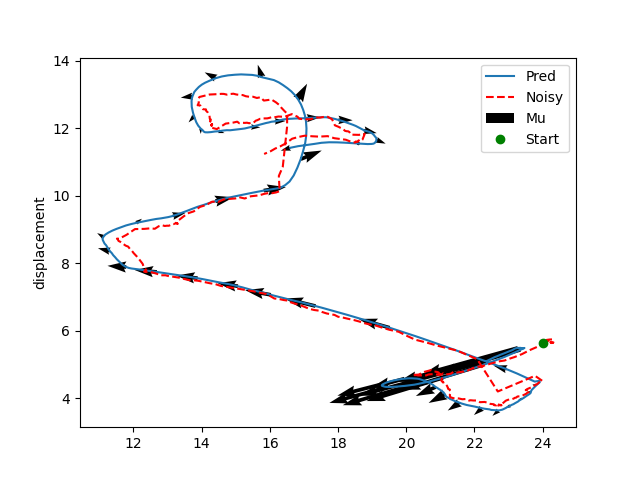
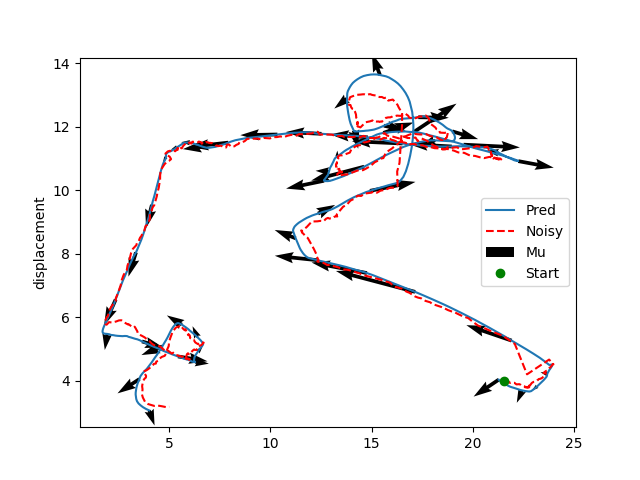
'm'

diff --git a/inference_simplified.py b/inference_simplified.py
@@ -423,7 +423,7 @@ def inf_finance(num_particles = 200):
 def inf_2d_fish(num_particles = 100, datapath=r'C:\Users\95414\Desktop\CUED\phd\year1\mycode\data\fish\3DZeF20Lables\train\ZebraFish-01\gt\gt.txt'):
     l = -1e-2
     c = 5
-    N = 500
+    N = 1000
     startx = 3000
     delta_t = 1
     sigma_w = 0.05
@@ -438,7 +438,7 @@ def inf_2d_fish(num_particles = 100, datapath=r'C:\Users\95414\Desktop\CUED\phd\
     average, std3, _ ,xs, fxs = process_filter_results(n_mus, n_vars, n_log_ws, E_ns, sigma_w)
     np.savez(r"C:\Users\95414\Desktop\CUED\phd\year1\mycode\alpha_stable_levy\stable_levy_code\data\real_data\infe\fish2d",n_mus=n_mus, n_vars = n_vars, n_log_ws = n_log_ws, E_ns = E_ns, allow_pickle=True)
 
-    m = 100
+    m = 200
     pred_xs = average[m:,:]
     y_ns = y_ns[m:,:]
     N = N - m
@@ -457,7 +457,7 @@ def inf_2d_fish(num_particles = 100, datapath=r'C:\Users\95414\Desktop\CUED\phd\
     line1 = ax.plot(pred_xs[0,0], pred_xs[0,3], label='Pred')[0]
     line2 = ax.plot(y_ns[0,0], y_ns[0,1], linestyle = '--', color = 'red', label='Noisy')[0]
     scale = 5
-    vecfield = ax.quiver(pred_xs[0,0], pred_xs[0,3], pred_xs[0,2]*scale, pred_xs[0,-1]*scale, scale = 1, label='Mu')
+    vecfield = ax.quiver(pred_xs[0,0], pred_xs[0,3], pred_xs[0,2]*scale, pred_xs[0,-1]*scale, label='Mu')
     ax.set(xlim=[min(pred_xs[:,0]) - 2.5, max(pred_xs[:,0]) + 2.5], \
            ylim=[min(pred_xs[:,3]) - 2.5, max(pred_xs[:,3]) + 2.5])
 
